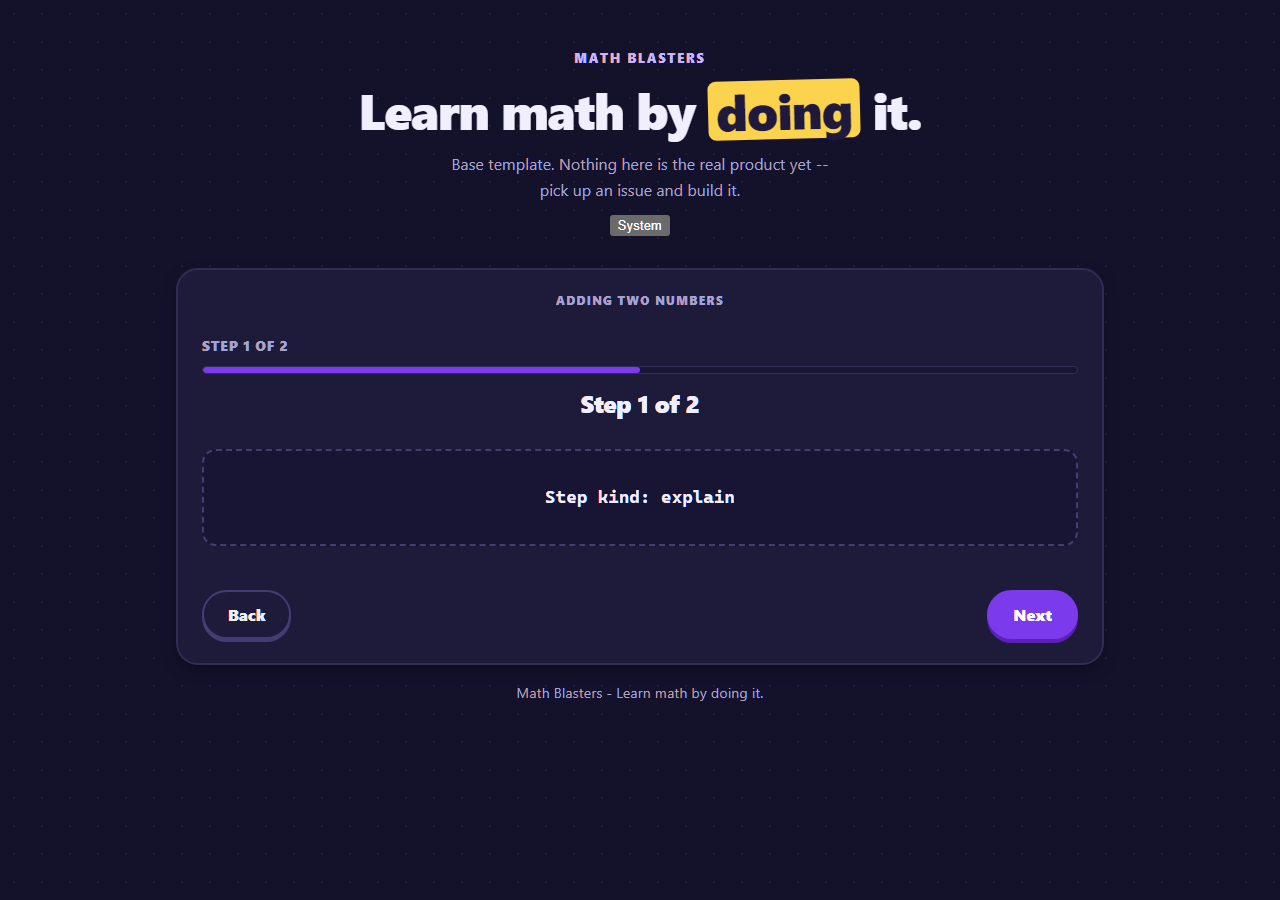
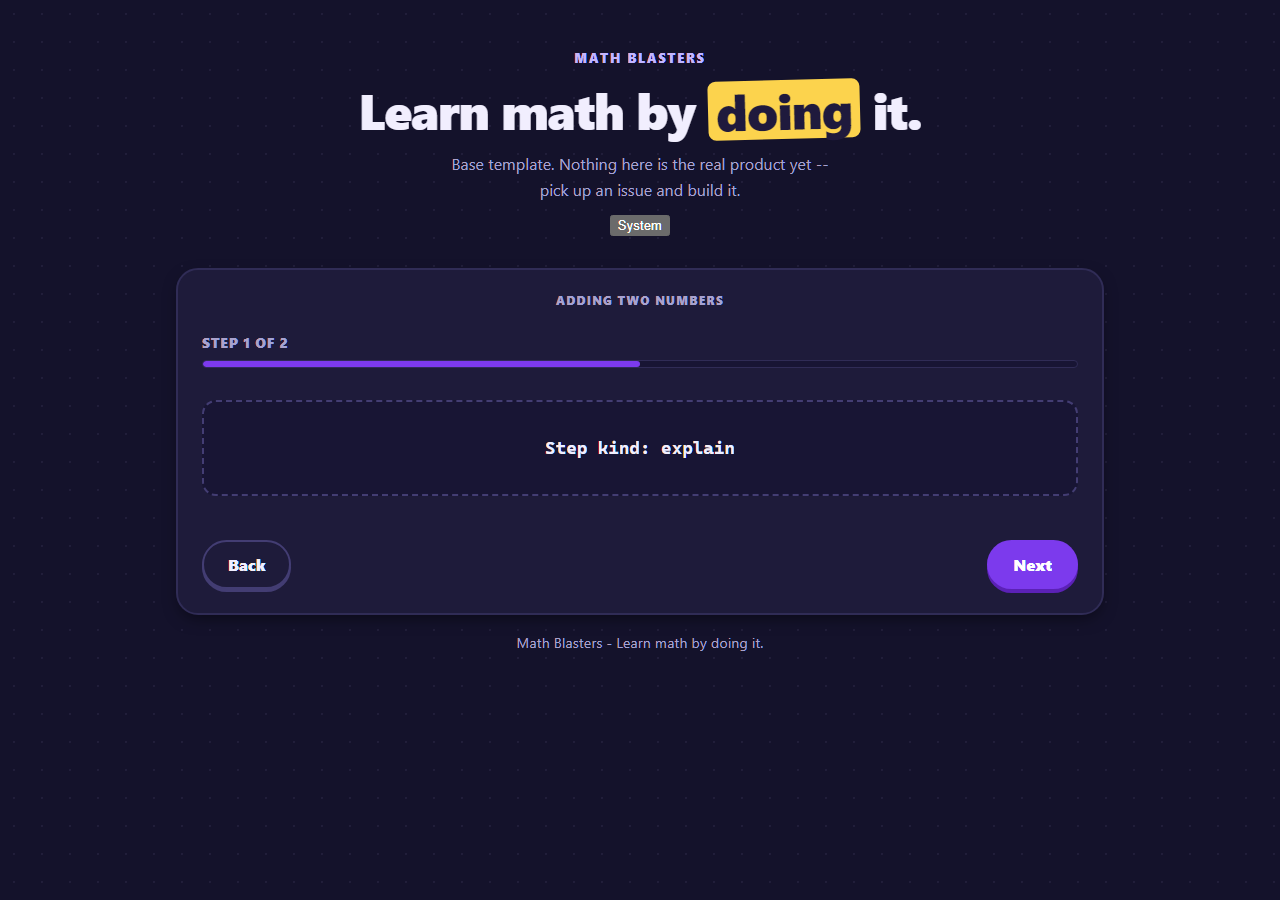
refactor(web): consolidate step heading into single progress counter element

Changed region(s): [[0.1562, 0.5911, 0.8438, 0.7778], [0.1562, 0.3733, 0.8125, 0.56]]

diff --git a/web/src/components/LessonStepper/LessonStepper.tsx b/web/src/components/LessonStepper/LessonStepper.tsx
@@ -45,7 +45,9 @@ export function LessonStepper({ lesson }: LessonStepperProps) {
 
       <div className={styles.header}>
         <div className={styles.meta}>
-          <p className={styles.counter}>{progressText}</p>
+          <h2 ref={headingRef} tabIndex={-1} className={styles.counter}>
+            {progressText}
+          </h2>
         </div>
 
         <div
@@ -62,10 +64,6 @@ export function LessonStepper({ lesson }: LessonStepperProps) {
             style={{ width: `${progressPercent}%` }}
           />
         </div>
-
-        <h2 ref={headingRef} tabIndex={-1} className={styles.heading}>
-          {progressText}
-        </h2>
       </div>
 
       <div className={styles.stepContainer}>

diff --git a/web/src/components/LessonStepper/LessonStepper.module.css b/web/src/components/LessonStepper/LessonStepper.module.css
@@ -25,6 +25,13 @@
   color: var(--text-muted);
   text-transform: uppercase;
   margin: 0;
+  outline: none;
+}
+
+.counter:focus-visible {
+  outline: 3px solid var(--sky-400);
+  outline-offset: 2px;
+  border-radius: var(--radius-sm);
 }
 
 .progressTrack {
@@ -47,20 +54,6 @@
   .progressFill {
     transition: none;
   }
-}
-
-.heading {
-  font-size: 1.5rem;
-  font-weight: 800;
-  margin: var(--space-2) 0 0;
-  color: var(--text);
-  outline: none;
-}
-
-.heading:focus-visible {
-  outline: 3px solid var(--sky-400);
-  outline-offset: 2px;
-  border-radius: var(--radius-sm);
 }
 
 .stepContainer {
